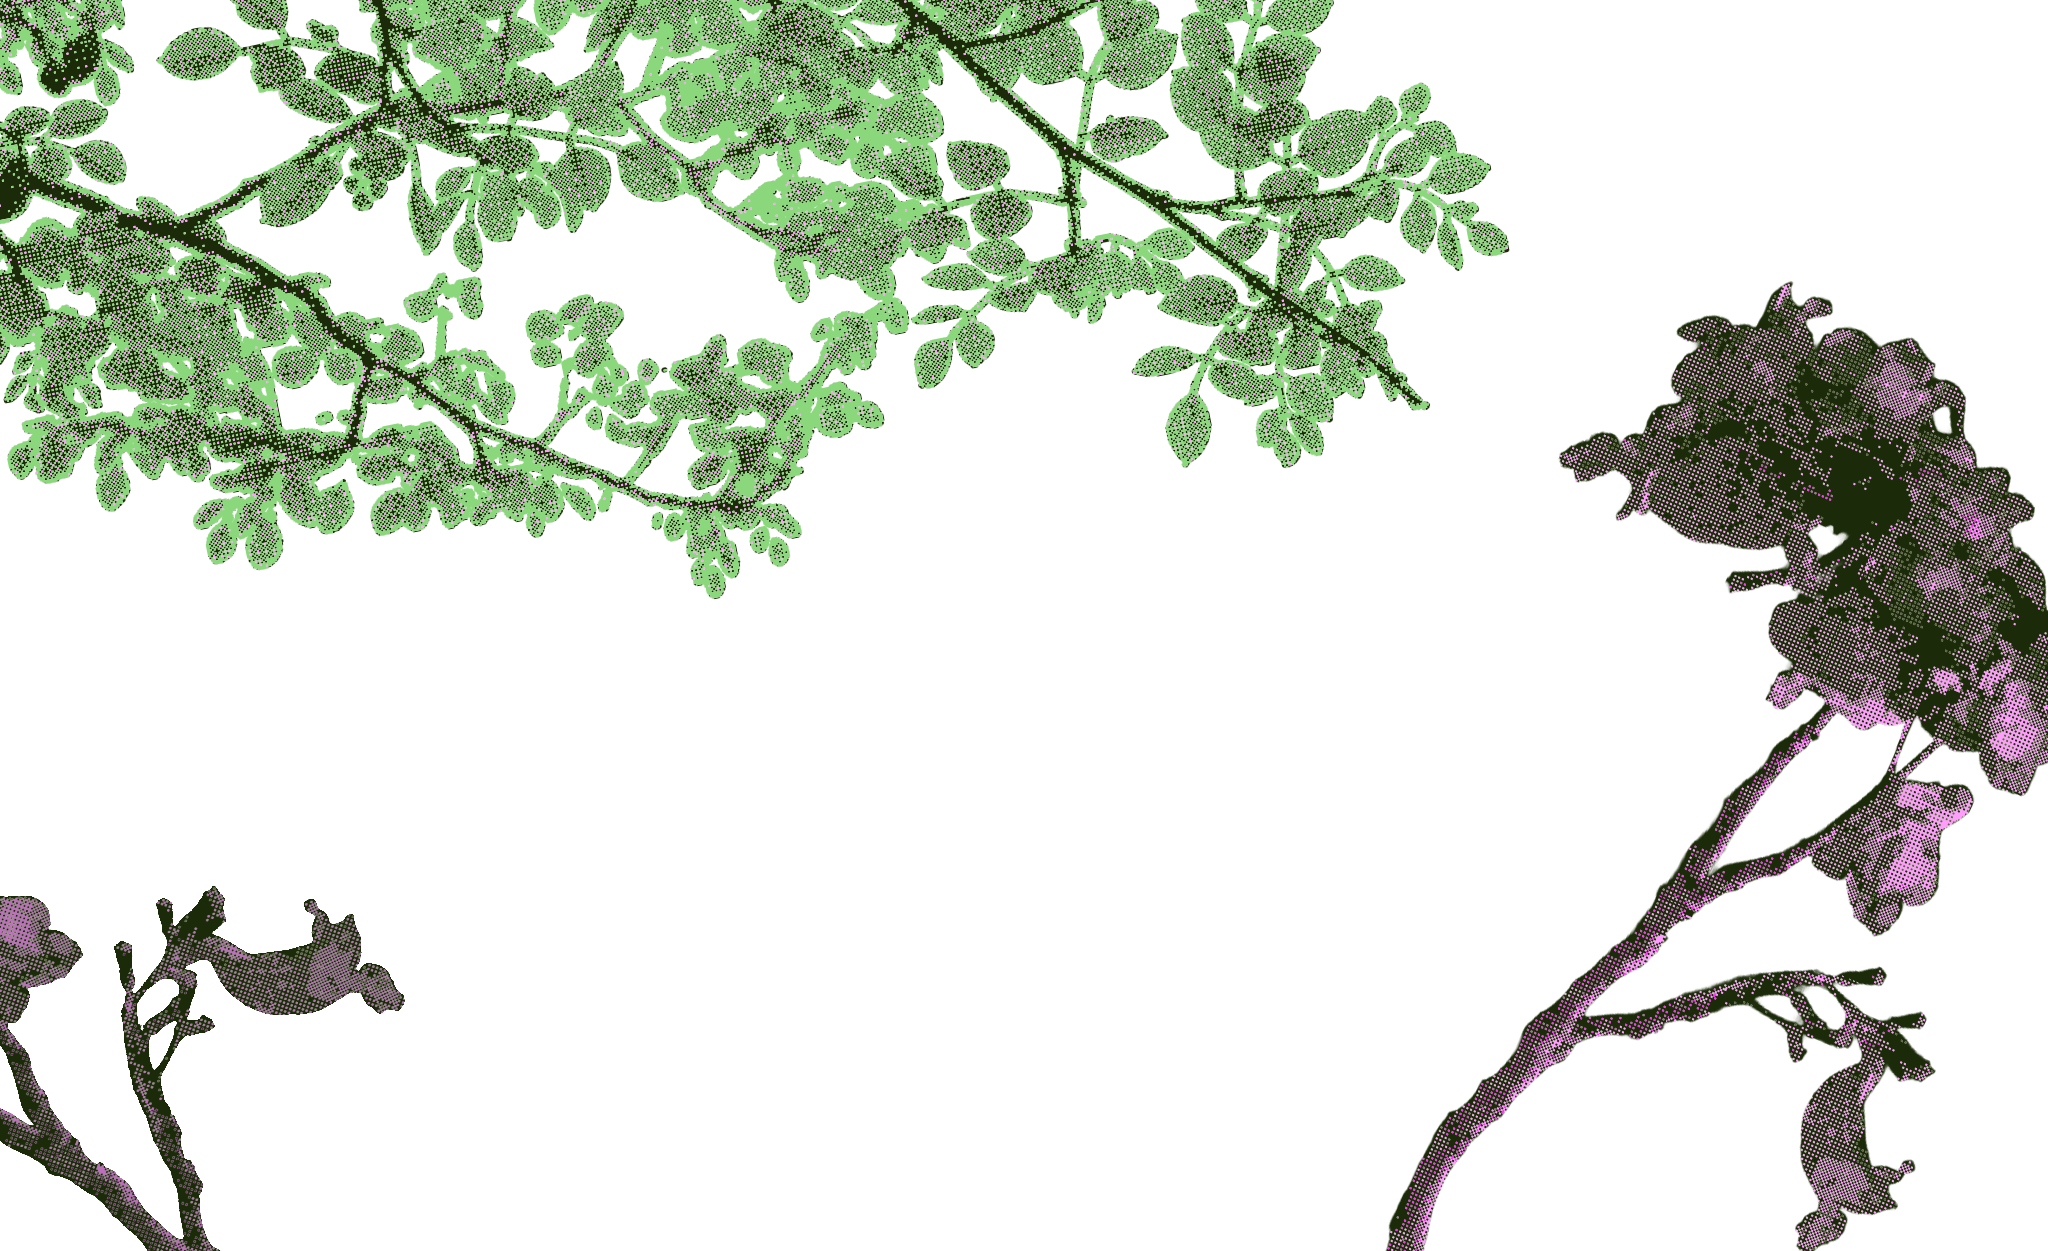
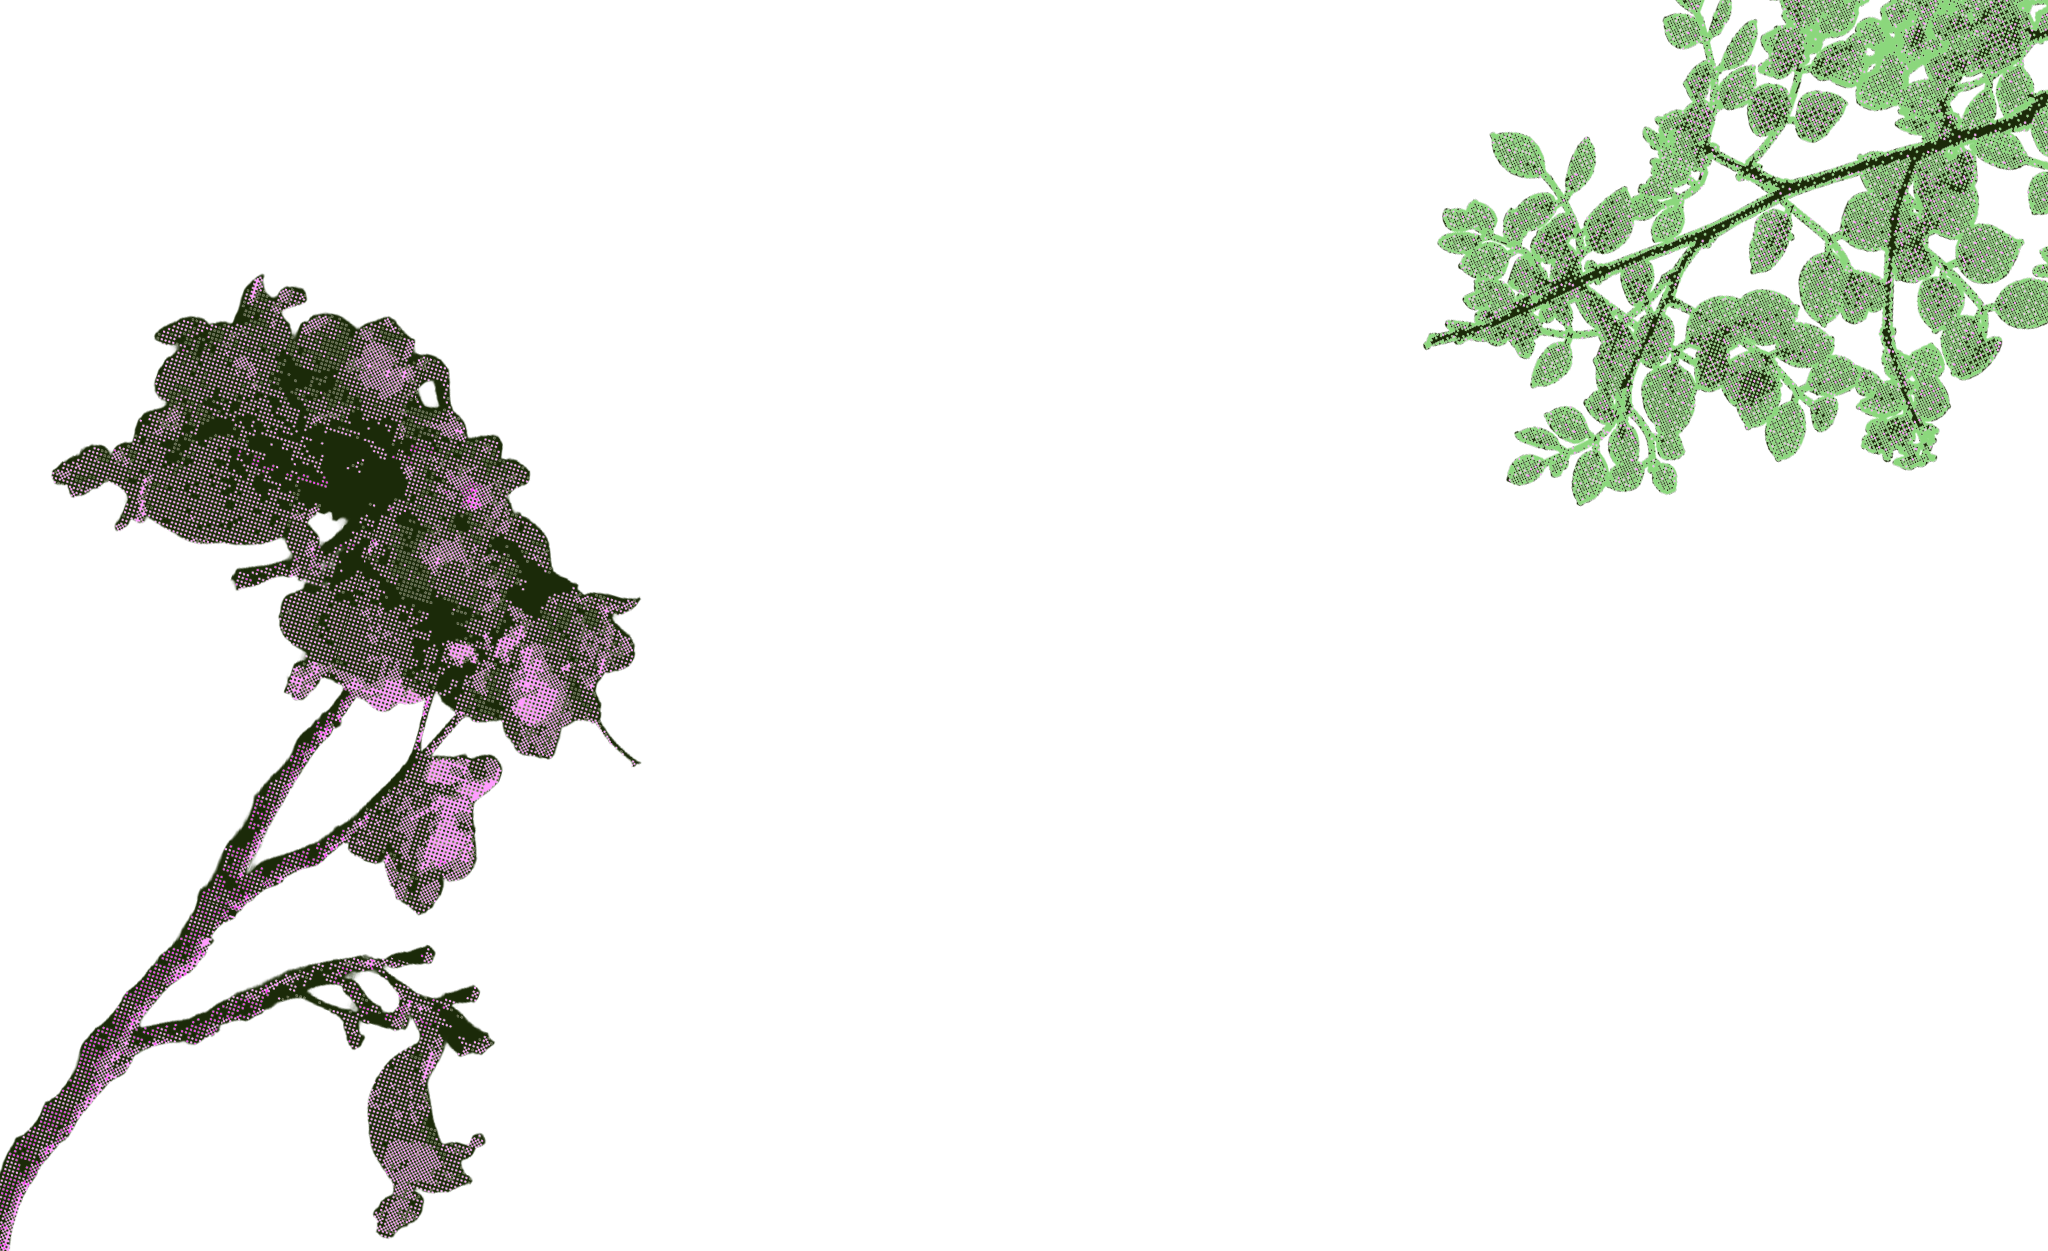
hextriplets

diff --git a/hextriplets.html b/hextriplets.html
@@ -1,0 +1,84 @@
+<!DOCTYPE html>
+<html>
+<head>
+	<meta charset="utf-8">
+	<title>hex triplets (Taper #16)</title>
+
+<!-- “hex triplets” Copyright (C) 2026 Shihab Mian
+
+Copying and distribution of this file, with or without modification,
+are permitted in any medium without royalty provided the copyright 
+notice and this notice are preserved. This file is offered as-is,
+without any warranty.
+
+This is from Taper #16: For Good Measure, Spring 2026:
+
+https://taper.badquar.to/16/hex_triplets.html
+
+Colours blend at every vertex. A color may be specified as an RGB
+triplet in hexadecimal format or a "hex triplet". Implications are
+created when selecting a background, at the behest of the hexadecimal.
+We see words coming and leaving view, some left in an inbetween state.
+Akin to the actions of others, the way these colors overlap allow for
+different tones to be ignored, forgotten, or lost as well as heard,
+seen & loved.
+
+*** BEGIN TEMPLATE INSTRUCTIONS ***
+* All poem code goes between the closing header and closing body tags
+below, and must not exceed 2KB (2048 bytes).
+* Without removing any template punctuation, insert your author name,
+poem title, and poem filename throughout the template, making sure your
+text, capitalization, and punctuation is consistent across the file.
+* Insert your creative statement above, wrapped to 72 characters, and 
+using typographical quotes “” and apostrophes ‘’.
+* Do not modify the template in any other way.
+*** END TEMPLATE INSTRUCTIONS ***
+
+-->
+
+<style>
+	body { margin:0 ; overflow:hidden }
+	a { color:#eee ; text-decoration:none }
+	header { margin:0 ; padding:0 ; background-color:#444 ; color:#bbb ;
+		position:relative ; z-index:1000 }
+	header > h1 { margin:0 ; font-size:12px ; font-family:sans-serif ;
+		border-bottom:1px #999 solid ; padding:5px 10px ; line-height:17px }
+</style>
+</head>
+<body>
+<header id=nav>
+	<h1>
+		<a href="https://taper.badquar.to/16/sic.html">&lt;&lt;</a> &nbsp; 
+		<a href="https://taper.badquar.to/16/">Taper #16 :
+		For Good Measure</a> : Spring 2026 &nbsp; 
+		<a href="https://taper.badquar.to/16/desperate_measures.html">&gt;&gt;</a><br>
+		<a href="https://taper.badquar.to/16/hex_triplets.html">“hex triplets”</a> by
+		<a href="https://taper.badquar.to/16/about.html#mian">Shihab Mian</a>
+	</h1>
+</header>
+<!-- All poem code goes here, and must be less than or equal to 2048 bytes (not including closing </body> and </html> tags below)-->
+<style>.e{padding-left:5px;font-size:45px}#h{display:flex;align-items:center;height:100px;user-select:none}.c{margin:auto;text-align:left;display:block;width:150px}.u{padding:0;list-style-type:lower-roman;list-style-position:inside;justify-content:center;text-align:center;display:block}</style>
+<div class=c>
+<div id=h>
+<p>#</p>
+<p class=e onclick=v(this) id=0></p>
+<p class=e onclick=v(this) id=1></p>
+<p class=e onclick=v(this) id=2></p>
+</div>
+<p class=p>we c thru hue</p>
+<p class=p>gels ovr irises</p>
+<p class=p>battling 4 our due</p>
+<p class=p>the right 2 b:</p>
+</div>
+<ul class=u>
+<li class=p>seen</li>
+<li class=p>heard</li>
+<li class=p>luvd</li>
+</ul>
+<div class=c>
+<p class=p>can u discern skin</p>
+<p class=p>thru stains of blood</p>
+</div>
+<script>function v(t){let o,l,i,c=t.id;"0"==c&&(x>14?x=0:x+=1,x>9?(o=x.toString(16).toUpperCase(),q[c]=o):q[c]=x,h1.innerHTML=q[c]),"1"==c&&(y>14?y=0:y+=1,y>9?(l=y.toString(16).toUpperCase(),q[c]=l):q[c]=y,h2.innerHTML=q[c]),"2"==c&&(z>14?z=0:z+=1,z>9?(i=z.toString(16).toUpperCase(),q[c]=i):q[c]=z,h3.innerHTML=q[c]),w=m.concat("#",q[0],q[1],q[2]),document.body.style.backgroundColor=w,h.color=w,h.filter="invert(100%)",e.forEach((e=>{e.style.color=w,n=r(),e.style.filter="invert("+n+")"}))}mm=Math,j=mm.round,r=mm.random,q=[],p=document,p.g=p.getElementById,e=p.querySelectorAll(".p"),h1=p.g("0"),h2=p.g("1"),h3=p.g("2"),h=p.g("h").style,x=0,y=0,z=0,m="",q.push(x,y,z),h1.innerHTML=x,h2.innerHTML=y,h3.innerHTML=z,w=m.concat("#",q[0],q[1],q[2]),document.body.style.backgroundColor=w,h.color=w,h.filter="invert(100%)",e.forEach((e=>{e.style.color=w,n=.1*r(),e.style.filter="invert("+n+")"}))</script>
+</body>
+</html>

diff --git a/assets/style.css b/assets/style.css
@@ -32,15 +32,6 @@
   color: #015202;
 }
 
-* {
-  box-sizing: inherit;
-}
-
-html {
-  height: 100%;
-  box-sizing: border-box;
-}
-
 body {
   height: 100%;
   font-size: 0.875em;
@@ -64,7 +55,7 @@ center {
 .wrapper {
   margin: 0 auto;
   width: 870px;
-  margin-top: 10px;
+  margin-top: 0px;
   padding: 10px 20px;
 }
 
@@ -127,12 +118,18 @@ center {
   height: auto;
   font-family: "Mieszkanie";
   font-size: 26px;
-  background: #a6ce8e;
+  background: #2d7625;
   text-align: center;
   /* border: 1px dotted #fff;
   text-align: center;
   border-radius: 5px;*/
-  }
+}
+
+
+.hg {
+  color: #a6ce8e;
+  padding: 20px;
+}
 
 /*Container for top row of links.*/
 .links {
@@ -210,10 +207,6 @@ center {
   list-style-position: outside;
   list-style-image: url("img/bullet_green.png");
   padding-left: 10px;
-}
-
-.hg {
-  color: #2d7625;
 }
   
 /* For narrow screens: slightly narrows sidebars, and makes the width

diff --git a/hollowsgrove.html b/hollowsgrove.html
@@ -92,7 +92,7 @@
       <div style="display: flex; justify-content: center;">
         <img class="bStackF" src="assets/img/button-palestine-riversea.gif">
       </div>
-      <a href="https://webring.xxiivv.com/#hollowsgrove" target="_blank" rel="noopener" style="display: flex; justify-content: center;">
+      <a href="https://webring.xxiivv.com/#holo" target="_blank" rel="noopener" style="display: flex; justify-content: center;">
         <img class="xxiivv bStack" src="https://webring.xxiivv.com/icon.white.svg" alt="XXIIVV webring"/>
       </a>
     </div>
